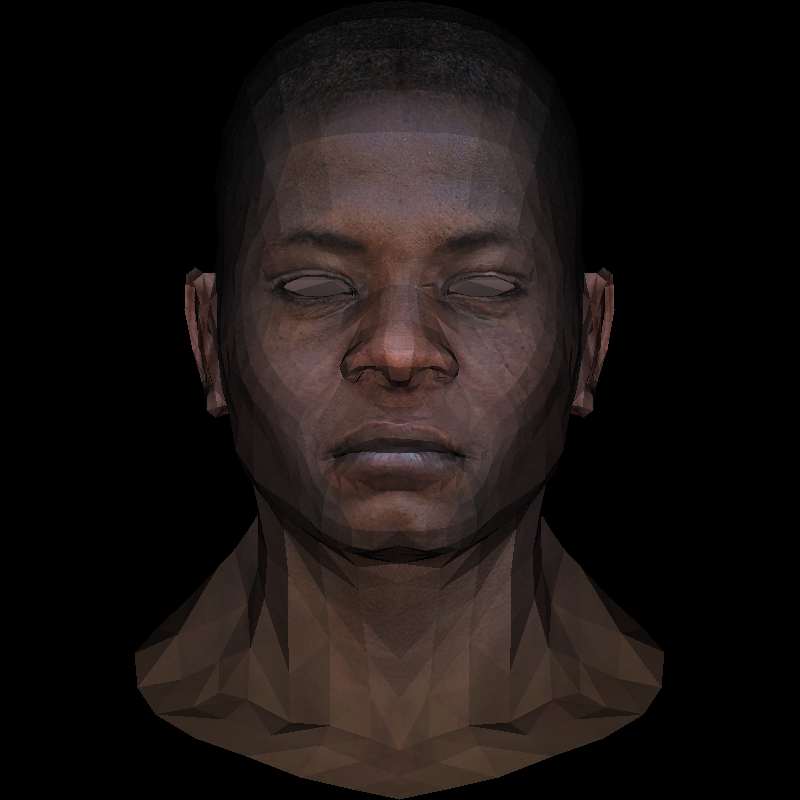
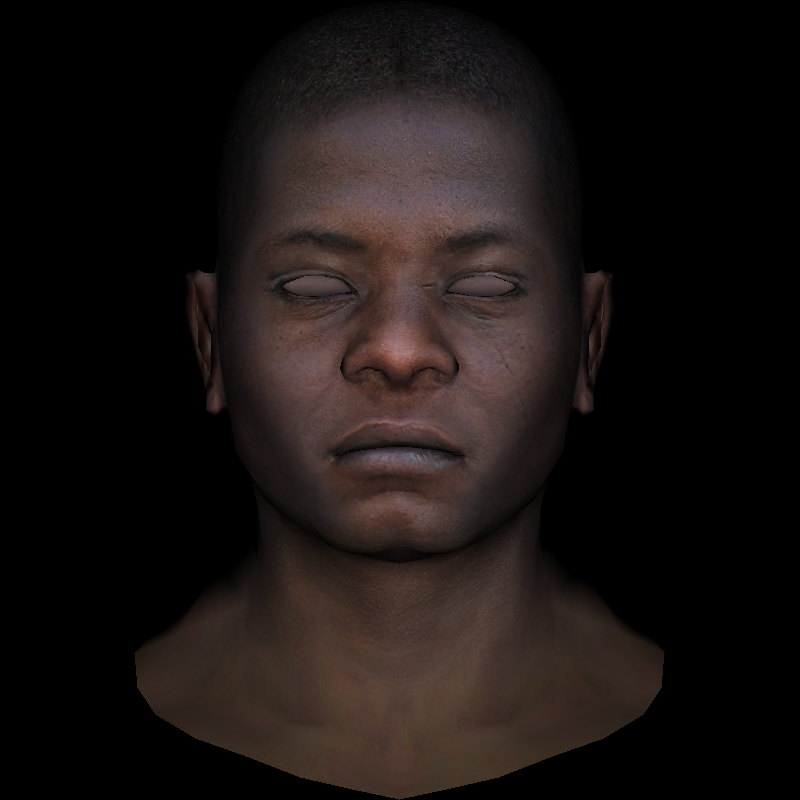
Add smooth (not in lesson)

diff --git a/src/main/kotlin/fr/oyashirox/Canvas.kt b/src/main/kotlin/fr/oyashirox/Canvas.kt
@@ -108,7 +108,7 @@ class Canvas(val image: Image) {
         }
     }
 
-    fun triangle(triangle: List<Point>, face: Face, texture: Texture, intensity: Double) {
+    fun triangle(triangle: List<Point>, face: Face, texture: Texture, lightDir: Vector) {
         val min = Point(triangle.minBy { it.x }!!.x, triangle.minBy { it.y }!!.y)
         val max = Point(triangle.maxBy { it.x }!!.x, triangle.maxBy { it.y }!!.y)
 
@@ -116,8 +116,13 @@ class Canvas(val image: Image) {
             for (y in min.y..max.y) {
                 val barycenter = barycentric(triangle, Point(x, y))
                 if (barycenter.x < 0 || barycenter.y < 0 || barycenter.z < 0) continue
+                val normal = interpolate(barycenter, face.normals).normalize()
+                val intensity = normal.dot(-lightDir).coerceAtLeast(0.0)
+                if(intensity <= 0.0) continue
+
                 val zValue = interpolate(barycenter, triangle) { zBuffer }
                 val textCoords = interpolate(barycenter, face.textures)
+
                 val color = intensity * texture[textCoords]
 
                 val index = x + y * image.width

diff --git a/src/main/kotlin/fr/oyashirox/Renderer.kt b/src/main/kotlin/fr/oyashirox/Renderer.kt
@@ -47,13 +47,7 @@ class Renderer(val canvas: Canvas) {
         model.faces.forEach { face ->
             // Convert world to screen coord (orthographic)
             val points = face.vertices.map(::mapToScreen)
-
-            val normal = (face.vertices[2] - face.vertices[0]).cross(face.vertices[1] - face.vertices[0]).normalize()
-            val intensity = lightDir.dot(normal).coerceAtLeast(0.0)
-            if (intensity > 0) {
-                // Create the triangle
-                canvas.triangle(points, face, texture, intensity)
-            }
+            canvas.triangle(points, face, texture, lightDir)
         }
     }
 
